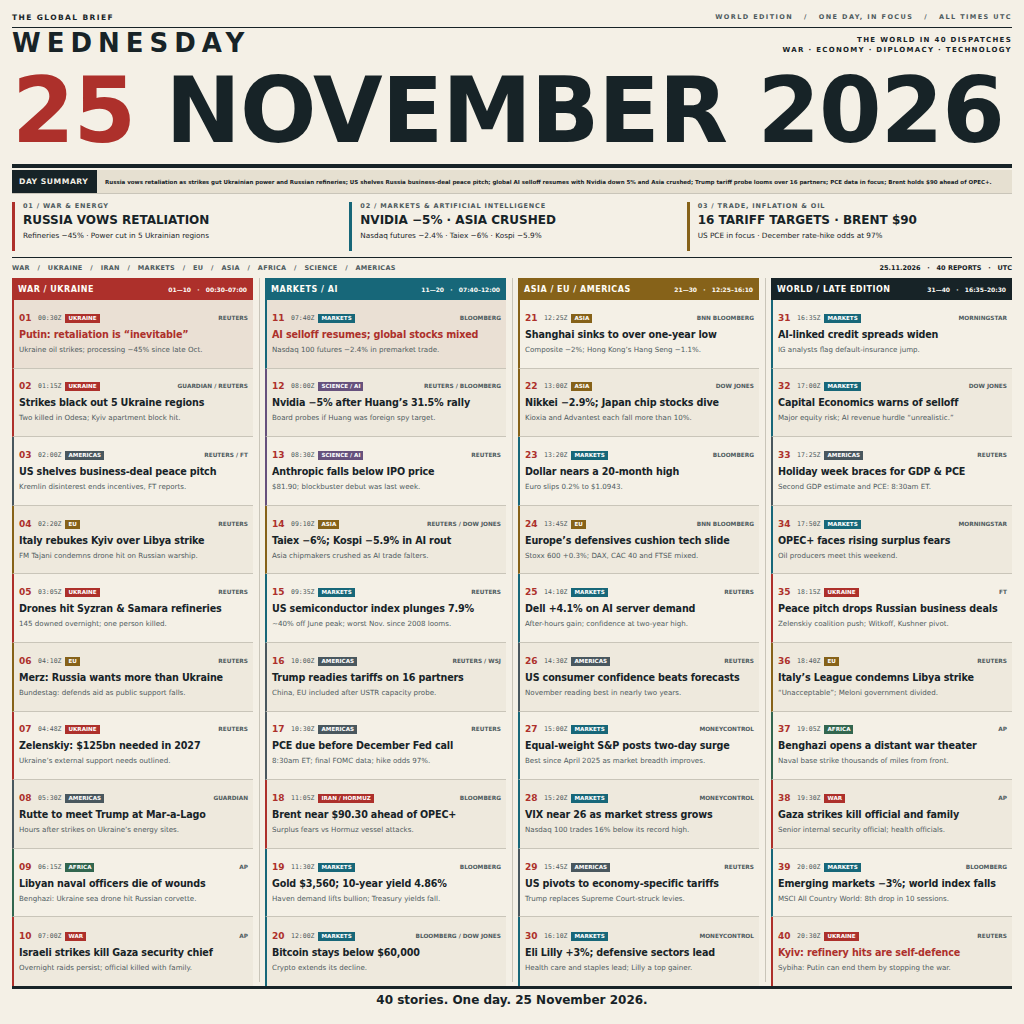
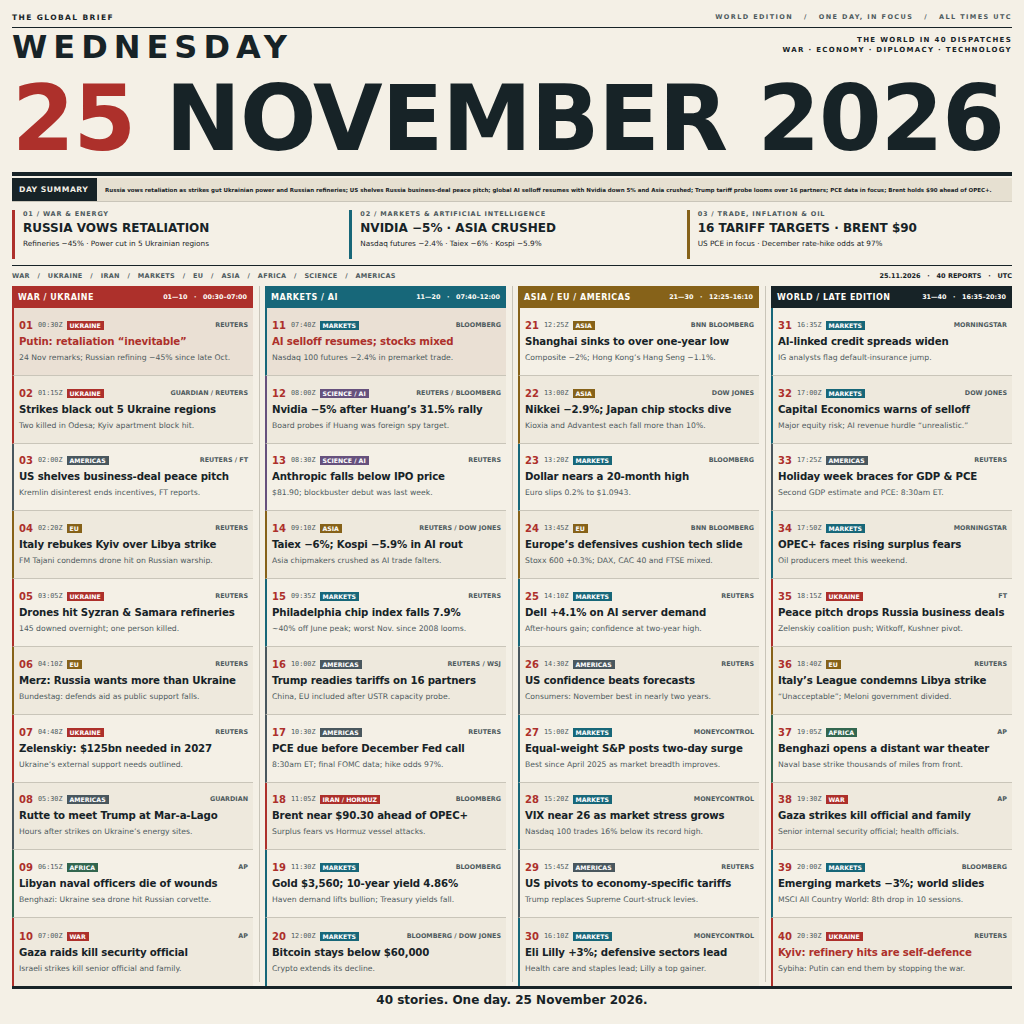
Improve news image legibility and verify 1024px render

Changed region(s): [[0.0, 0.0312, 1.0, 0.9688]]

diff --git a/news.html b/news.html
@@ -37,8 +37,8 @@
       height: 1024px;
       padding: 12px;
       display: grid;
-      /* Height: 16 + 140 + 28 + 62 + 20 + 708 + 26 = 1,000px. */
-      grid-template-rows: 16px 140px 28px 62px 20px 708px 26px;
+      /* Height: 12 + 16 + 148 + 28 + 62 + 20 + 700 + 26 + 12 = 1,024px. */
+      grid-template-rows: 16px 148px 28px 62px 20px 700px 26px;
     }
     .edition {
       display: flex;
@@ -63,8 +63,8 @@
     }
     .weekday {
       display: block;
-      font-size: 26px;
-      line-height: 30px;
+      font-size: 32px;
+      line-height: 38px;
       letter-spacing: 6px;
     }
     .calendar {
@@ -157,7 +157,7 @@
       min-width: 0;
       min-height: 0;
       display: grid;
-      /* Each column: a 22px section bar and ten 68.6px story cards. */
+      /* Each column: a 22px section bar and ten 67.8px story cards. */
       grid-template-rows: 22px repeat(10, minmax(0, 1fr));
     }
     .column + .column::before {
@@ -184,7 +184,7 @@
       letter-spacing: .5px;
       white-space: nowrap;
     }
-    .region small { font-size: 6px; font-weight: 600; letter-spacing: 0; }
+    .region small { font-size: 6.4px; font-weight: 600; letter-spacing: 0; }
     .region.war { background: var(--red); }
     .region.markets { background: var(--blue); }
     .region.eu { background: var(--gold); }
@@ -219,7 +219,7 @@
     .number {
       flex: 0 0 15px;
       color: var(--red);
-      font-size: 9px;
+      font-size: 10px;
       font-weight: 800;
       font-variant-numeric: tabular-nums;
     }
@@ -227,13 +227,13 @@
       flex: 0 0 auto;
       color: var(--muted);
       font-family: "DejaVu Sans Mono", monospace;
-      font-size: 6.5px;
+      font-size: 6.8px;
     }
     .topic {
       padding: 1px 3px;
       background: var(--slate);
       color: white;
-      font-size: 5.6px;
+      font-size: 6.2px;
       line-height: 7px;
       font-weight: 800;
     }
@@ -246,7 +246,7 @@
       min-width: 0;
       margin-left: auto;
       color: var(--muted);
-      font-size: 5.8px;
+      font-size: 6.4px;
       line-height: 9px;
       font-weight: 800;
       text-align: right;
@@ -254,7 +254,7 @@
     h3 {
       min-width: 0;
       margin: 0;
-      font-size: 9.6px;
+      font-size: 10.2px;
       line-height: 13px;
       font-weight: 800;
       letter-spacing: -.15px;
@@ -264,8 +264,8 @@
       min-width: 0;
       margin: 0;
       color: var(--muted);
-      font-size: 7.1px;
-      line-height: 10px;
+      font-size: 7.7px;
+      line-height: 11px;
       white-space: nowrap;
     }
     .lead { background: #eae0d4; }
@@ -301,7 +301,7 @@
   <div class="stories">
     <section class="column" aria-label="Stories 01 to 10: war, Ukraine and diplomacy">
       <h2 class="region war">WAR / UKRAINE <small>01—10 &nbsp; · &nbsp; 00:30–07:00</small></h2>
-      <article class="story ukraine lead"><div class="meta"><span class="number">01</span><time datetime="2026-11-25T00:30:00Z">00:30Z</time><span class="topic ukraine">UKRAINE</span><span class="source">REUTERS</span></div><h3>Putin: retaliation is “inevitable”</h3><p>Ukraine oil strikes; processing −45% since late Oct.</p></article>
+      <article class="story ukraine lead"><div class="meta"><span class="number">01</span><time datetime="2026-11-25T00:30:00Z">00:30Z</time><span class="topic ukraine">UKRAINE</span><span class="source">REUTERS</span></div><h3>Putin: retaliation “inevitable”</h3><p>24 Nov remarks; Russian refining −45% since late Oct.</p></article>
       <article class="story ukraine"><div class="meta"><span class="number">02</span><time datetime="2026-11-25T01:15:00Z">01:15Z</time><span class="topic ukraine">UKRAINE</span><span class="source">GUARDIAN / REUTERS</span></div><h3>Strikes black out 5 Ukraine regions</h3><p>Two killed in Odesa; Kyiv apartment block hit.</p></article>
       <article class="story americas"><div class="meta"><span class="number">03</span><time datetime="2026-11-25T02:00:00Z">02:00Z</time><span class="topic">AMERICAS</span><span class="source">REUTERS / FT</span></div><h3>US shelves business-deal peace pitch</h3><p>Kremlin disinterest ends incentives, FT reports.</p></article>
       <article class="story eu"><div class="meta"><span class="number">04</span><time datetime="2026-11-25T02:20:00Z">02:20Z</time><span class="topic eu">EU</span><span class="source">REUTERS</span></div><h3>Italy rebukes Kyiv over Libya strike</h3><p>FM Tajani condemns drone hit on Russian warship.</p></article>
@@ -310,15 +310,15 @@
       <article class="story ukraine"><div class="meta"><span class="number">07</span><time datetime="2026-11-25T04:48:00Z">04:48Z</time><span class="topic ukraine">UKRAINE</span><span class="source">REUTERS</span></div><h3>Zelenskiy: $125bn needed in 2027</h3><p>Ukraine’s external support needs outlined.</p></article>
       <article class="story americas"><div class="meta"><span class="number">08</span><time datetime="2026-11-25T05:30:00Z">05:30Z</time><span class="topic">AMERICAS</span><span class="source">GUARDIAN</span></div><h3>Rutte to meet Trump at Mar-a-Lago</h3><p>Hours after strikes on Ukraine’s energy sites.</p></article>
       <article class="story africa"><div class="meta"><span class="number">09</span><time datetime="2026-11-25T06:15:00Z">06:15Z</time><span class="topic africa">AFRICA</span><span class="source">AP</span></div><h3>Libyan naval officers die of wounds</h3><p>Benghazi: Ukraine sea drone hit Russian corvette.</p></article>
-      <article class="story war"><div class="meta"><span class="number">10</span><time datetime="2026-11-25T07:00:00Z">07:00Z</time><span class="topic war">WAR</span><span class="source">AP</span></div><h3>Israeli strikes kill Gaza security chief</h3><p>Overnight raids persist; official killed with family.</p></article>
+      <article class="story war"><div class="meta"><span class="number">10</span><time datetime="2026-11-25T07:00:00Z">07:00Z</time><span class="topic war">WAR</span><span class="source">AP</span></div><h3>Gaza raids kill security official</h3><p>Israeli strikes kill senior official and family.</p></article>
     </section>
     <section class="column" aria-label="Stories 11 to 20: markets, AI and energy">
       <h2 class="region markets">MARKETS / AI <small>11—20 &nbsp; · &nbsp; 07:40–12:00</small></h2>
-      <article class="story markets lead"><div class="meta"><span class="number">11</span><time datetime="2026-11-25T07:40:00Z">07:40Z</time><span class="topic markets">MARKETS</span><span class="source">BLOOMBERG</span></div><h3>AI selloff resumes; global stocks mixed</h3><p>Nasdaq 100 futures −2.4% in premarket trade.</p></article>
+      <article class="story markets lead"><div class="meta"><span class="number">11</span><time datetime="2026-11-25T07:40:00Z">07:40Z</time><span class="topic markets">MARKETS</span><span class="source">BLOOMBERG</span></div><h3>AI selloff resumes; stocks mixed</h3><p>Nasdaq 100 futures −2.4% in premarket trade.</p></article>
       <article class="story science"><div class="meta"><span class="number">12</span><time datetime="2026-11-25T08:00:00Z">08:00Z</time><span class="topic science">SCIENCE / AI</span><span class="source">REUTERS / BLOOMBERG</span></div><h3>Nvidia −5% after Huang’s 31.5% rally</h3><p>Board probes if Huang was foreign spy target.</p></article>
       <article class="story science"><div class="meta"><span class="number">13</span><time datetime="2026-11-25T08:30:00Z">08:30Z</time><span class="topic science">SCIENCE / AI</span><span class="source">REUTERS</span></div><h3>Anthropic falls below IPO price</h3><p>$81.90; blockbuster debut was last week.</p></article>
       <article class="story asia"><div class="meta"><span class="number">14</span><time datetime="2026-11-25T09:10:00Z">09:10Z</time><span class="topic asia">ASIA</span><span class="source">REUTERS / DOW JONES</span></div><h3>Taiex −6%; Kospi −5.9% in AI rout</h3><p>Asia chipmakers crushed as AI trade falters.</p></article>
-      <article class="story markets"><div class="meta"><span class="number">15</span><time datetime="2026-11-25T09:35:00Z">09:35Z</time><span class="topic markets">MARKETS</span><span class="source">REUTERS</span></div><h3>US semiconductor index plunges 7.9%</h3><p>~40% off June peak; worst Nov. since 2008 looms.</p></article>
+      <article class="story markets"><div class="meta"><span class="number">15</span><time datetime="2026-11-25T09:35:00Z">09:35Z</time><span class="topic markets">MARKETS</span><span class="source">REUTERS</span></div><h3>Philadelphia chip index falls 7.9%</h3><p>~40% off June peak; worst Nov. since 2008 looms.</p></article>
       <article class="story americas"><div class="meta"><span class="number">16</span><time datetime="2026-11-25T10:00:00Z">10:00Z</time><span class="topic">AMERICAS</span><span class="source">REUTERS / WSJ</span></div><h3>Trump readies tariffs on 16 partners</h3><p>China, EU included after USTR capacity probe.</p></article>
       <article class="story americas"><div class="meta"><span class="number">17</span><time datetime="2026-11-25T10:30:00Z">10:30Z</time><span class="topic">AMERICAS</span><span class="source">REUTERS</span></div><h3>PCE due before December Fed call</h3><p>8:30am ET; final FOMC data; hike odds 97%.</p></article>
       <article class="story iran"><div class="meta"><span class="number">18</span><time datetime="2026-11-25T11:05:00Z">11:05Z</time><span class="topic iran">IRAN / HORMUZ</span><span class="source">BLOOMBERG</span></div><h3>Brent near $90.30 ahead of OPEC+</h3><p>Surplus fears vs Hormuz vessel attacks.</p></article>
@@ -332,7 +332,7 @@
       <article class="story markets"><div class="meta"><span class="number">23</span><time datetime="2026-11-25T13:20:00Z">13:20Z</time><span class="topic markets">MARKETS</span><span class="source">BLOOMBERG</span></div><h3>Dollar nears a 20-month high</h3><p>Euro slips 0.2% to $1.0943.</p></article>
       <article class="story eu"><div class="meta"><span class="number">24</span><time datetime="2026-11-25T13:45:00Z">13:45Z</time><span class="topic eu">EU</span><span class="source">BNN BLOOMBERG</span></div><h3>Europe’s defensives cushion tech slide</h3><p>Stoxx 600 +0.3%; DAX, CAC 40 and FTSE mixed.</p></article>
       <article class="story markets"><div class="meta"><span class="number">25</span><time datetime="2026-11-25T14:10:00Z">14:10Z</time><span class="topic markets">MARKETS</span><span class="source">REUTERS</span></div><h3>Dell +4.1% on AI server demand</h3><p>After-hours gain; confidence at two-year high.</p></article>
-      <article class="story americas"><div class="meta"><span class="number">26</span><time datetime="2026-11-25T14:30:00Z">14:30Z</time><span class="topic">AMERICAS</span><span class="source">REUTERS</span></div><h3>US consumer confidence beats forecasts</h3><p>November reading best in nearly two years.</p></article>
+      <article class="story americas"><div class="meta"><span class="number">26</span><time datetime="2026-11-25T14:30:00Z">14:30Z</time><span class="topic">AMERICAS</span><span class="source">REUTERS</span></div><h3>US confidence beats forecasts</h3><p>Consumers: November best in nearly two years.</p></article>
       <article class="story markets"><div class="meta"><span class="number">27</span><time datetime="2026-11-25T15:00:00Z">15:00Z</time><span class="topic markets">MARKETS</span><span class="source">MONEYCONTROL</span></div><h3>Equal-weight S&amp;P posts two-day surge</h3><p>Best since April 2025 as market breadth improves.</p></article>
       <article class="story markets"><div class="meta"><span class="number">28</span><time datetime="2026-11-25T15:20:00Z">15:20Z</time><span class="topic markets">MARKETS</span><span class="source">MONEYCONTROL</span></div><h3>VIX near 26 as market stress grows</h3><p>Nasdaq 100 trades 16% below its record high.</p></article>
       <article class="story americas"><div class="meta"><span class="number">29</span><time datetime="2026-11-25T15:45:00Z">15:45Z</time><span class="topic">AMERICAS</span><span class="source">REUTERS</span></div><h3>US pivots to economy-specific tariffs</h3><p>Trump replaces Supreme Court-struck levies.</p></article>
@@ -344,11 +344,11 @@
       <article class="story markets"><div class="meta"><span class="number">32</span><time datetime="2026-11-25T17:00:00Z">17:00Z</time><span class="topic markets">MARKETS</span><span class="source">DOW JONES</span></div><h3>Capital Economics warns of selloff</h3><p>Major equity risk; AI revenue hurdle “unrealistic.”</p></article>
       <article class="story americas"><div class="meta"><span class="number">33</span><time datetime="2026-11-25T17:25:00Z">17:25Z</time><span class="topic">AMERICAS</span><span class="source">REUTERS</span></div><h3>Holiday week braces for GDP &amp; PCE</h3><p>Second GDP estimate and PCE: 8:30am ET.</p></article>
       <article class="story markets"><div class="meta"><span class="number">34</span><time datetime="2026-11-25T17:50:00Z">17:50Z</time><span class="topic markets">MARKETS</span><span class="source">MORNINGSTAR</span></div><h3>OPEC+ faces rising surplus fears</h3><p>Oil producers meet this weekend.</p></article>
-      <article class="story ukraine"><div class="meta"><span class="number">35</span><time datetime="2026-11-25T18:15:00Z">18:15Z</time><span class="topic ukraine">UKRAINE</span><span class="source">FT</span></div><h3>Peace pitch drops Russian business deals</h3><p>Zelenskiy coalition push; Witkoff, Kushner pivot.</p></article>
+      <article class="story ukraine"><div class="meta"><span class="number">35</span><time datetime="2026-11-25T18:15:00Z">18:15Z</time><span class="topic ukraine">UKRAINE</span><span class="source">FT</span></div><h3>Peace pitch drops Russia business deals</h3><p>Zelenskiy coalition push; Witkoff, Kushner pivot.</p></article>
       <article class="story eu"><div class="meta"><span class="number">36</span><time datetime="2026-11-25T18:40:00Z">18:40Z</time><span class="topic eu">EU</span><span class="source">REUTERS</span></div><h3>Italy’s League condemns Libya strike</h3><p>“Unacceptable”; Meloni government divided.</p></article>
       <article class="story africa"><div class="meta"><span class="number">37</span><time datetime="2026-11-25T19:05:00Z">19:05Z</time><span class="topic africa">AFRICA</span><span class="source">AP</span></div><h3>Benghazi opens a distant war theater</h3><p>Naval base strike thousands of miles from front.</p></article>
       <article class="story war"><div class="meta"><span class="number">38</span><time datetime="2026-11-25T19:30:00Z">19:30Z</time><span class="topic war">WAR</span><span class="source">AP</span></div><h3>Gaza strikes kill official and family</h3><p>Senior internal security official; health officials.</p></article>
-      <article class="story markets"><div class="meta"><span class="number">39</span><time datetime="2026-11-25T20:00:00Z">20:00Z</time><span class="topic markets">MARKETS</span><span class="source">BLOOMBERG</span></div><h3>Emerging markets −3%; world index falls</h3><p>MSCI All Country World: 8th drop in 10 sessions.</p></article>
+      <article class="story markets"><div class="meta"><span class="number">39</span><time datetime="2026-11-25T20:00:00Z">20:00Z</time><span class="topic markets">MARKETS</span><span class="source">BLOOMBERG</span></div><h3>Emerging markets −3%; world slides</h3><p>MSCI All Country World: 8th drop in 10 sessions.</p></article>
       <article class="story ukraine lead"><div class="meta"><span class="number">40</span><time datetime="2026-11-25T20:30:00Z">20:30Z</time><span class="topic ukraine">UKRAINE</span><span class="source">REUTERS</span></div><h3>Kyiv: refinery hits are self-defence</h3><p>Sybiha: Putin can end them by stopping the war.</p></article>
     </section>
   </div>

diff --git a/render.py b/render.py
@@ -1,17 +1,117 @@
 import asyncio
+import json
+import struct
 from pathlib import Path
 
 from playwright.async_api import async_playwright
+
+
+LAYOUT_CHECK = """() => {
+    const failures = [];
+    const stories = [...document.querySelectorAll('.story')];
+    const columns = [...document.querySelectorAll('.column')];
+    const footer = document.querySelector('footer');
+    const masthead = document.querySelector('h1');
+    const expectedFooter = '40 stories. One day. 25 November 2026.';
+    const expectedDate = 'WEDNESDAY 25 NOVEMBER 2026';
+    if (stories.length !== 40) failures.push(`Expected 40 stories; got ${stories.length}`);
+    if (columns.length !== 4 || columns.some(c => c.querySelectorAll('.story').length !== 10))
+        failures.push('Expected four columns of ten stories');
+    if (footer?.textContent.trim() !== expectedFooter) failures.push('Footer differs');
+    if (masthead?.getAttribute('aria-label') !== expectedDate) failures.push('Masthead differs');
+    if (document.querySelectorAll('script, link, img, iframe, video, audio, object').length)
+        failures.push('Page must use inline CSS with no scripts or external assets');
+    if ([...document.styleSheets].some(s => s.href)) failures.push('External stylesheet');
+    if (document.documentElement.scrollWidth !== 1024 || document.documentElement.scrollHeight !== 1024)
+        failures.push('Document overflows its 1024×1024 viewport');
+
+    const tolerance = 0.75;
+    const within = (a, b) => a.left >= b.left - tolerance && a.top >= b.top - tolerance
+        && a.right <= b.right + tolerance && a.bottom <= b.bottom + tolerance;
+    const viewport = { left: 0, top: 0, right: 1024, bottom: 1024 };
+    const walker = document.createTreeWalker(document.querySelector('main'), NodeFilter.SHOW_TEXT);
+    let node;
+    while ((node = walker.nextNode())) {
+        if (!node.textContent.trim()) continue;
+        const range = document.createRange();
+        range.selectNodeContents(node);
+        const bounds = range.getBoundingClientRect();
+        const parent = node.parentElement;
+        if (!within(bounds, viewport) || !within(bounds, parent.getBoundingClientRect()))
+            failures.push(`Text exceeds its box: ${node.textContent.trim()}`);
+        const card = parent.closest('.story');
+        if (card && !within(bounds, card.getBoundingClientRect()))
+            failures.push(`Text exceeds its story card: ${node.textContent.trim()}`);
+    }
+
+    const allTimes = [];
+    stories.forEach((story, i) => {
+        const number = story.querySelector('.number')?.textContent;
+        const time = story.querySelector('time');
+        if (number !== String(i + 1).padStart(2, '0')) failures.push(`Number mismatch at story ${i + 1}`);
+        if (!time || !/^\\d{2}:\\d{2}Z$/.test(time.textContent)
+            || time.dateTime !== `2026-11-25T${time.textContent.slice(0, 5)}:00Z`)
+            failures.push(`Invalid UTC timestamp at story ${i + 1}`);
+        else allTimes.push(time.dateTime);
+        for (const selector of ['.source', '.topic', 'h3', 'p']) {
+            const element = story.querySelector(selector);
+            if (!element?.textContent.trim()) failures.push(`Missing ${selector} at story ${i + 1}`);
+        }
+        for (const selector of ['h3', 'p']) {
+            const range = document.createRange();
+            range.selectNodeContents(story.querySelector(selector));
+            if (range.getClientRects().length !== 1) failures.push(`Wrapped ${selector} at story ${i + 1}`);
+        }
+        const metadata = [...story.querySelector('.meta').children];
+        metadata.slice(1).forEach((element, j) => {
+            if (metadata[j].getBoundingClientRect().right > element.getBoundingClientRect().left + tolerance)
+                failures.push(`Overlapping metadata at story ${i + 1}`);
+        });
+    });
+    if (allTimes.join() !== [...allTimes].sort().join()) failures.push('Stories are not in UTC order');
+    const summaryRange = document.createRange();
+    summaryRange.selectNodeContents(document.querySelector('.summary p'));
+    if (summaryRange.getClientRects().length !== 1) failures.push('Day summary is not one line');
+    const themes = ['WAR', 'UKRAINE', 'IRAN', 'MARKETS', 'EU', 'ASIA', 'AFRICA', 'SCIENCE', 'AMERICAS'];
+    const tags = [...document.querySelectorAll('.topic')].map(t => t.textContent);
+    for (const theme of themes) if (!tags.some(t => t.split(' / ').includes(theme))) failures.push(`Missing theme: ${theme}`);
+    const headlineSize = parseFloat(getComputedStyle(document.querySelector('.calendar')).fontSize);
+    const otherSizes = [...document.querySelectorAll('main *:not(h1):not(h1 *)')]
+        .map(e => parseFloat(getComputedStyle(e).fontSize));
+    if (headlineSize < 80 || otherSizes.some(s => s >= headlineSize)) failures.push('Date is not the largest type');
+    return {
+        failures,
+        viewport: [innerWidth, innerHeight],
+        columns: columns.map(c => c.getBoundingClientRect().width),
+        stories: stories.length,
+        footer: footer?.textContent,
+        mastheadFontPx: headlineSize,
+        externalRequests: performance.getEntriesByType('resource').map(r => r.name),
+    };
+}"""
 
 
 async def main():
     root = Path(__file__).resolve().parent
     async with async_playwright() as p:
         browser = await p.chromium.launch(args=["--no-sandbox"])
-        page = await browser.new_page(viewport={"width": 1024, "height": 1024}, device_scale_factor=1)
-        await page.goto((root / "news.html").as_uri())
-        await page.screenshot(path=str(root / "entry.png"))
-        await browser.close()
+        try:
+            page = await browser.new_page(viewport={"width": 1024, "height": 1024}, device_scale_factor=1)
+            await page.goto((root / "news.html").as_uri(), wait_until="networkidle")
+            await page.evaluate("document.fonts.ready")
+            result = await page.evaluate(LAYOUT_CHECK)
+            if result["externalRequests"]:
+                result["failures"].append("Page loaded additional resources")
+            if result["failures"]:
+                raise RuntimeError(json.dumps(result, indent=2, ensure_ascii=False))
+            png = await page.screenshot(path=str(root / "entry.png"), full_page=False, animations="disabled")
+            dimensions = struct.unpack(">II", png[16:24])
+            if dimensions != (1024, 1024):
+                raise RuntimeError(f"Unexpected PNG dimensions: {dimensions}")
+            result["pngPixels"] = list(dimensions)
+            print(json.dumps(result, indent=2, ensure_ascii=False))
+        finally:
+            await browser.close()
 
 
 asyncio.run(main())

diff --git a/README.md b/README.md
@@ -4,7 +4,9 @@
 [![rank](https://make.fun/badge/news-image-20261125/aijaz52/news-image-20261125/rank.svg)](https://make.fun/bounty/news-image-20261125/leaderboard?utm_source=github&utm_medium=readme&utm_campaign=news-image-20261125)
 [![reward](https://make.fun/badge/news-image-20261125/aijaz52/news-image-20261125/reward.svg)](https://make.fun/bounty/news-image-20261125?utm_source=github&utm_medium=readme&utm_campaign=news-image-20261125)
 
-Forty sourced reports from Wednesday 25 November 2026 in one 1024×1024 news front page: a dominant date masthead, the day's summary, three key developments, and four columns of numbered reports with UTC times, sources, theme tags, headlines, and details.
+![canvas: 1024 × 1024](badges/canvas.svg) ![stories: 40 · UTC](badges/stories.svg) ![assets: self-contained](badges/assets.svg)
+
+Forty reports from the supplied Wednesday 25 November 2026 brief in one 1024×1024 news front page: a dominant date masthead, the day's summary, three key developments, and four columns of numbered reports with UTC times, source tags, theme tags, headlines, and details. The editorial sequence follows the supplied brief; the first card identifies Putin's 24 November remarks as a carry-over into this edition.
 
 [`news.html`](news.html) is self-contained, with inline CSS and no external assets. Its 1,000px content area holds four 241px columns and three 12px gutters, inside 12px page margins. The fixed grid fits the masthead, all 40 reports, and the footer into 1,024px of height.
 
@@ -18,7 +20,7 @@ Rendering requires Python, Playwright, and its Chromium browser (`python3 -m pip
 python3 render.py && MAKEFUN_OUTPUT_DIR=out node main.ts
 ```
 
-The renderer uses a 1024×1024 viewport and a device scale factor of 1. The page uses system fonts; the checked-in image was rendered with DejaVu Sans and DejaVu Sans Mono.
+The renderer uses a 1024×1024 viewport and a device scale factor of 1. Before capturing the image, it checks all 40 numbered cards, UTC timestamps, one-line headlines and details, the exact footer, all nine theme tags, text boundaries, metadata overlap, and the absence of external asset requests. It fails rather than saving an image with clipping or overflow. The page uses system fonts; the checked-in image was rendered with DejaVu Sans and DejaVu Sans Mono.
 
 ---
 
